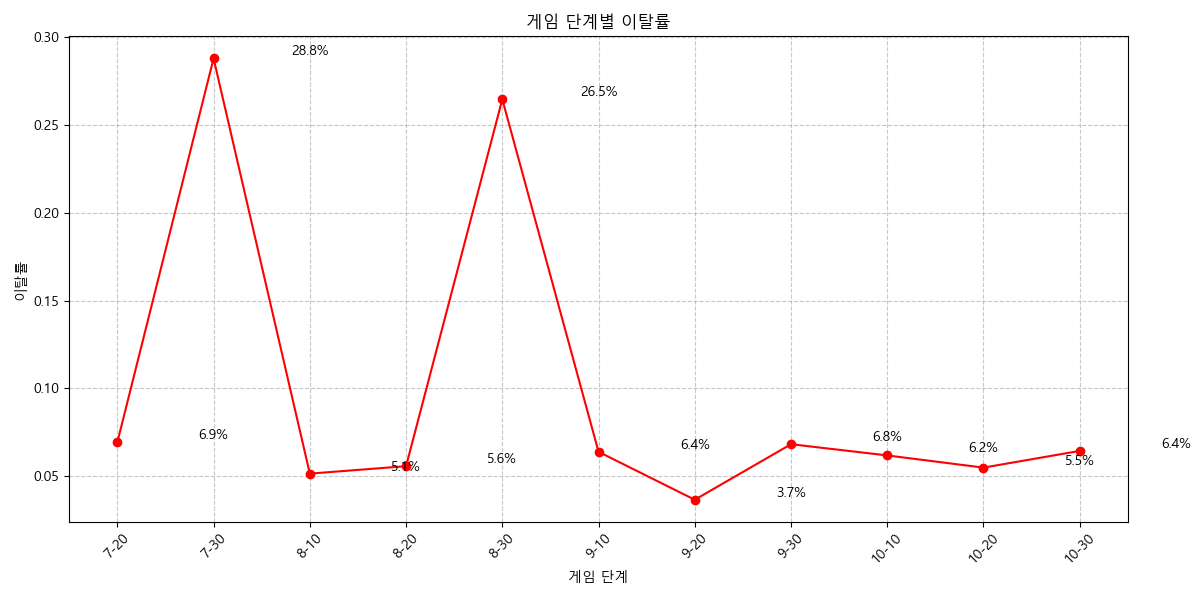
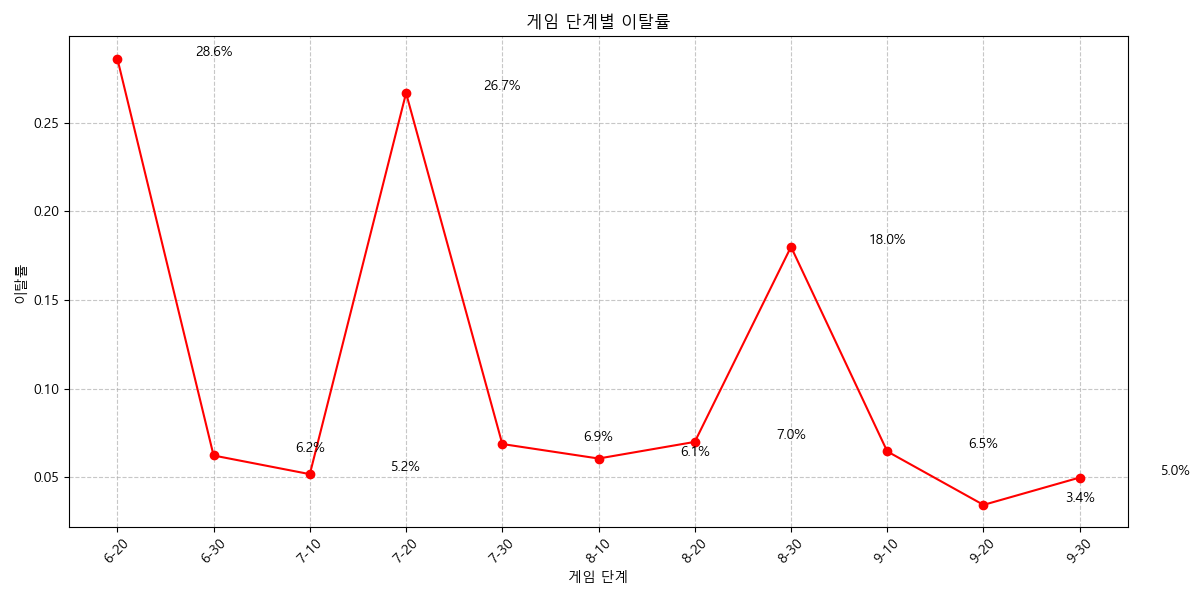
Modify the Churning Rate by Stage

diff --git a/projects/SevenKnights/data_generation/churning_data.py b/projects/SevenKnights/data_generation/churning_data.py
@@ -8,15 +8,22 @@ from datetime import datetime, timedelta
 plt.rcParams['font.family'] = 'Malgun Gothic'
 plt.rcParams['axes.unicode_minus'] = False
 
-# 단계별 유저 수 생성
-stages = ['7-10', '7-20', '7-30', '8-10', '8-20', '8-30', '9-10', '9-20', '9-30', '10-10', '10-20', '10-30']
+# 단계별 유저 수 생성 (6-10부터 9-30까지)
+stages = ['6-10', '6-20', '6-30', '7-10', '7-20', '7-30', '8-10', '8-20', '8-30', '9-10', '9-20', '9-30']
 initial_users = 900000
 
 # 각 단계별 유저 수 계산
 users = [initial_users]
 for i in range(1, len(stages)):
-    if stages[i] in ['7-30', '8-30']:  # 특정 단계에서 큰 이탈률 적용
-        churn_rate = np.random.uniform(0.20, 0.30)
+    # 특정 단계에서 높은 이탈률 적용
+    if stages[i] == '6-20':  # 6-10에서 6-20으로 넘어갈 때
+        churn_rate = np.random.uniform(0.25, 0.30)
+    elif stages[i] == '7-20':  # 7-10에서 7-20으로 넘어갈 때
+        churn_rate = np.random.uniform(0.25, 0.30)
+    elif stages[i] == '8-20':  # 8-10에서 8-20으로 넘어갈 때
+        churn_rate = 0.07  # 7% 고정
+    elif stages[i] == '8-30':  # 8-20에서 8-30으로 넘어갈 때
+        churn_rate = 0.18  # 18% 고정
     else:  # 일반적인 이탈률 적용
         churn_rate = np.random.uniform(0.03, 0.07)
     
